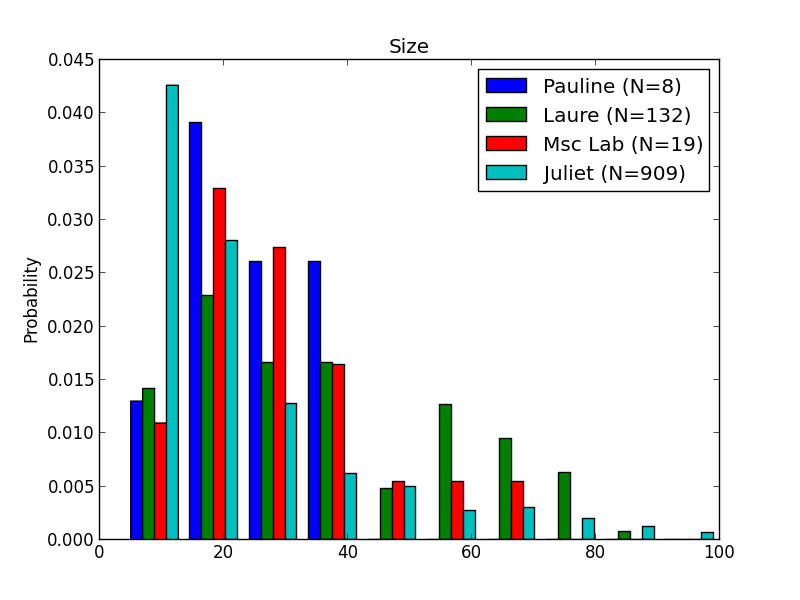
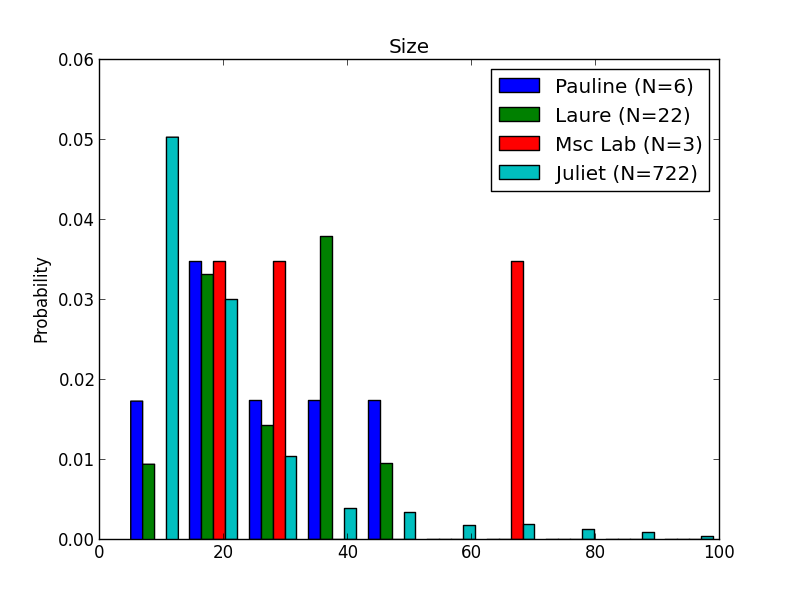
My analysis script now ignores repeats

diff --git a/vk-analysis.py b/vk-analysis.py
@@ -35,7 +35,13 @@ if __name__ == '__main__':
     if len(argv) > 1:
         logfile = argv[1]
 
-    data = [Instance(*row) for row in reader(open(logfile, 'r'))]
+    log_of_data = {}
+    data = []
+    for row in reader(open(logfile, 'r')):
+        if (row[4], row[5]) not in log_of_data:
+            data.append(Instance(*row))
+            log_of_data[(row[4], row[5])] = 1
+
     sizes = range(min([row.size for row in data]), max([row.size for row in data]) + 1)
     hosts = list(set([instance.host for instance in data]))
 

diff --git a/script.py b/script.py
@@ -27,8 +27,8 @@ host = names[socket.gethostname()]
 class Analysis():
 
     def __init__(self, k):
-        set_random_seed(k)
-        random.seed(k)
+        set_random_seed()
+        random.seed()
         self.ring = random.choice([ZZ, QQ])
         self.cols = random.randint(Integer(2), maxmatrixsize)
         self.rows = random.randint(Integer(2), maxmatrixsize)
